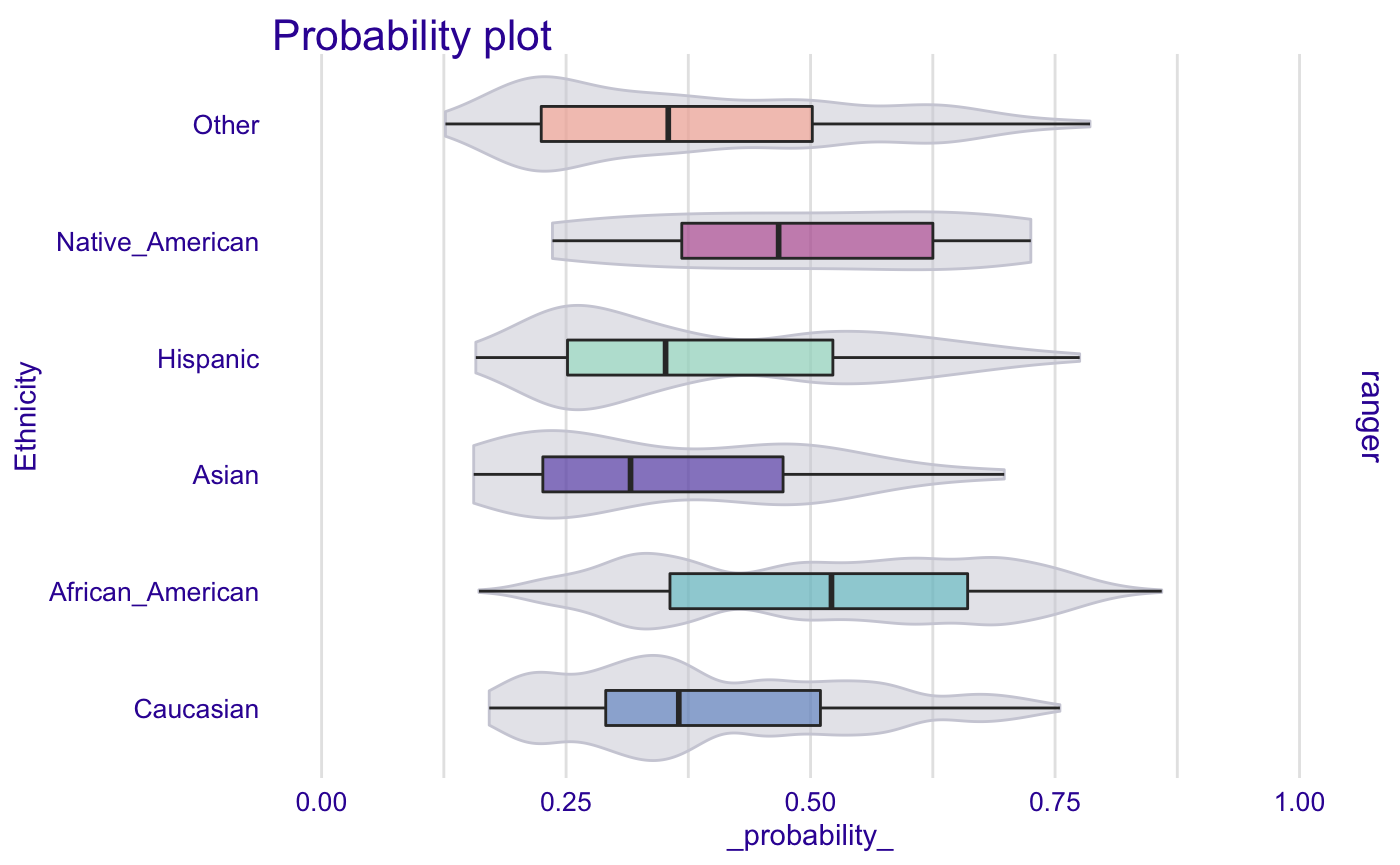
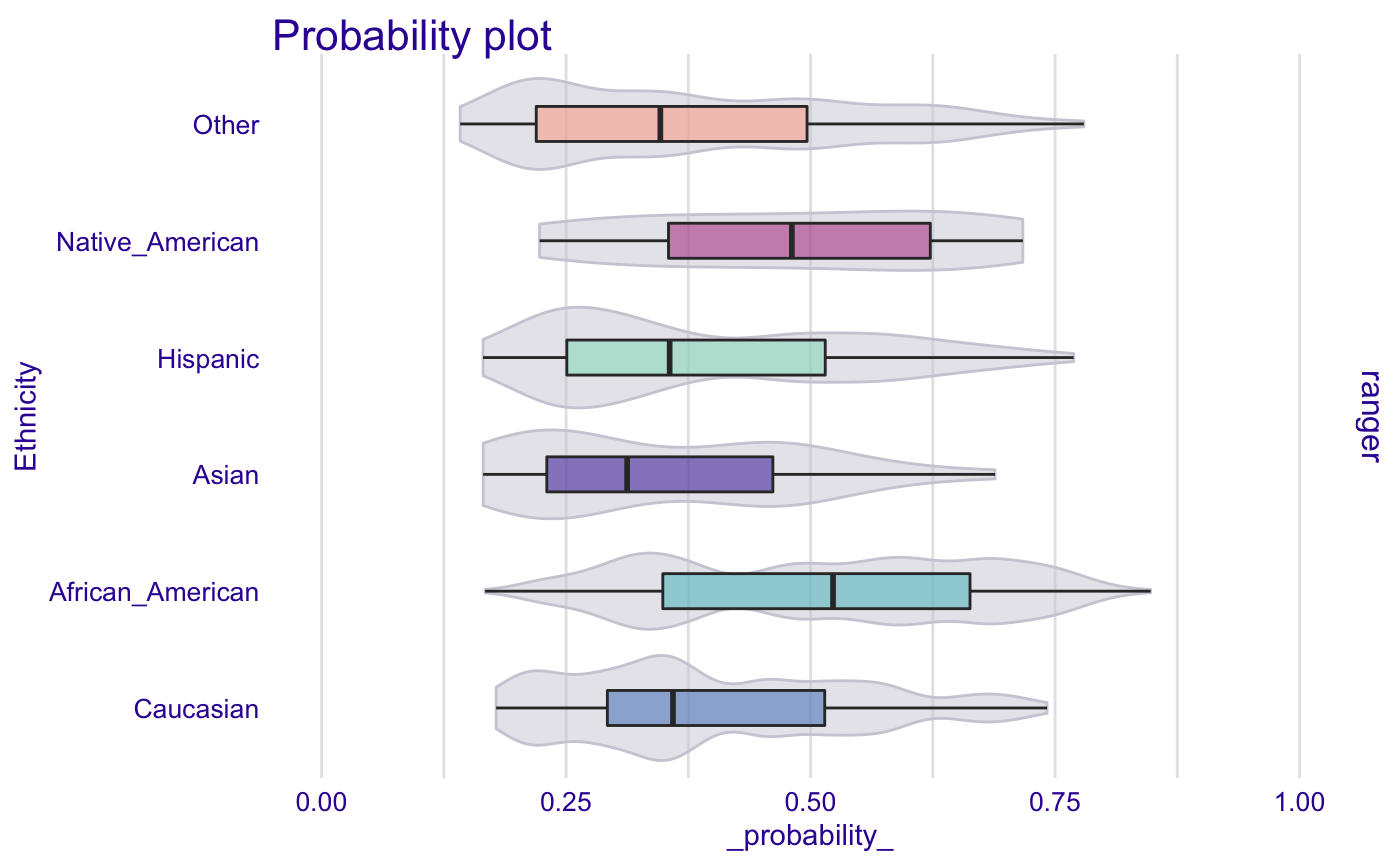
Built site for fairmodels: 0.1.0@ae38531

diff --git a/articles/Basic_tutorial.html b/articles/Basic_tutorial.html
@@ -147,9 +147,9 @@
 #&gt;   -&gt; target variable   :  6172  values 
 #&gt;   -&gt; model_info        :  package ranger , ver. 0.12.1 , task classification ( [33m default [39m ) 
 #&gt;   -&gt; predict function  :  yhat.ranger  will be used ( [33m default [39m )
-#&gt;   -&gt; predicted values  :  numerical, min =  0.1266547 , mean =  0.4550016 , max =  0.8591025  
+#&gt;   -&gt; predicted values  :  numerical, min =  0.1416829 , mean =  0.4549325 , max =  0.8477749  
 #&gt;   -&gt; residual function :  difference between y and yhat ( [33m default [39m )
-#&gt;   -&gt; residuals         :  numerical, min =  -0.7947479 , mean =  0.000118342 , max =  0.8422764  
+#&gt;   -&gt; residuals         :  numerical, min =  -0.7845341 , mean =  0.0001874206 , max =  0.8379564  
 #&gt;  [32m A new explainer has been created! [39m</code></pre>
 <p>Than we create <code>fairness_object</code> with <code><a href="../reference/create_fairness_object.html">create_fairness_object()</a></code></p>
 <div class="sourceCode" id="cb6"><html><body><pre class="r"><span class="no">fobject</span> <span class="kw">&lt;-</span> <span class="fu"><a href="../reference/create_fairness_object.html">create_fairness_object</a></span>(<span class="no">rf_explainer</span>,
